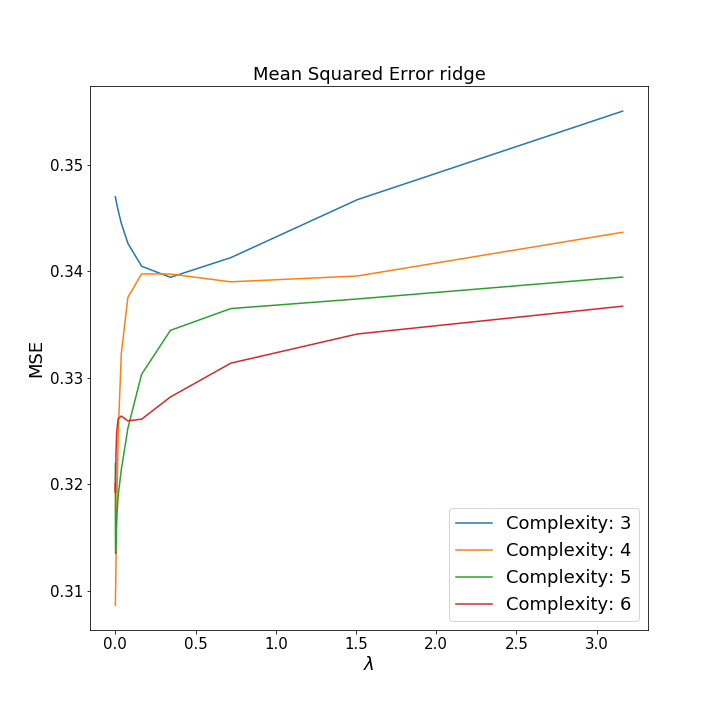
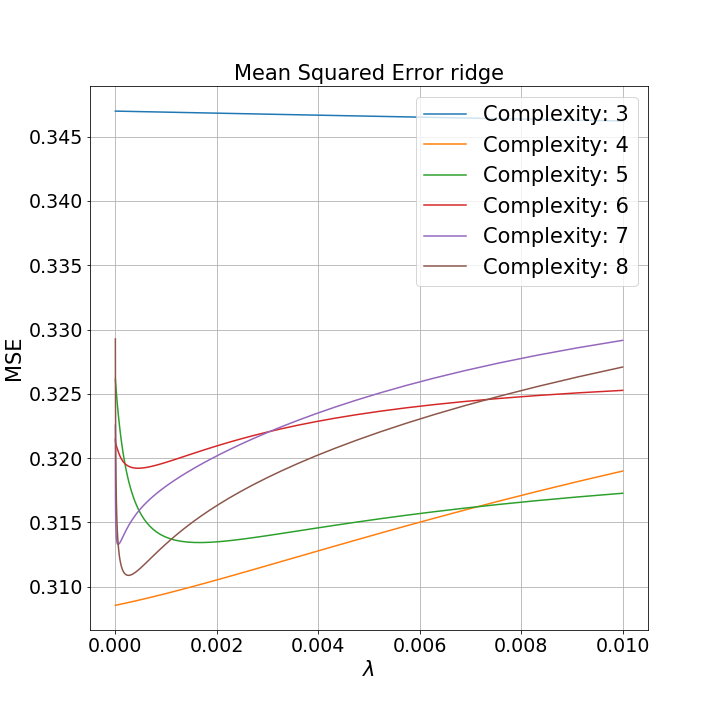
small change

diff --git a/Project1/ex4.py b/Project1/ex4.py
@@ -20,9 +20,10 @@ z_noisy = FrankeFunction(x, y) + noise*0.2
 
 tts = train_test_split(X,z_noisy,test_size=0.2) #Train test split
 
-compl = [3,4,5,6]
-nlambda = 15
-lambda_values = np.logspace(-4,0.5,nlambda) #[0.001, 0.005, 0.01, 0.05, 0.1, 0.5, 0.75, 1]
+compl = [3,4,5,6,7,8]
+nlambda = 100
+lambda_values = np.logspace(-6,-2,nlambda)
+print(lambda_values)
 mse_test_ridge = np.zeros((len(compl), len(lambda_values)))
 mse_train_ridge = np.zeros((len(compl), len(lambda_values)))
 r2_test_ridge = np.zeros((len(compl), len(lambda_values)))
